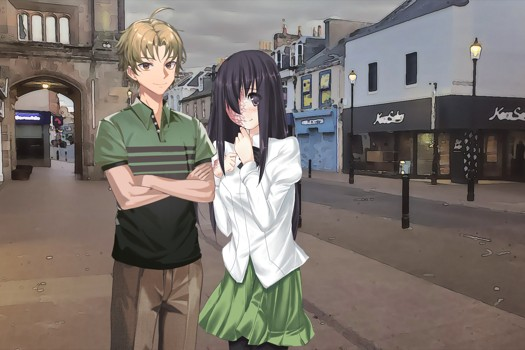
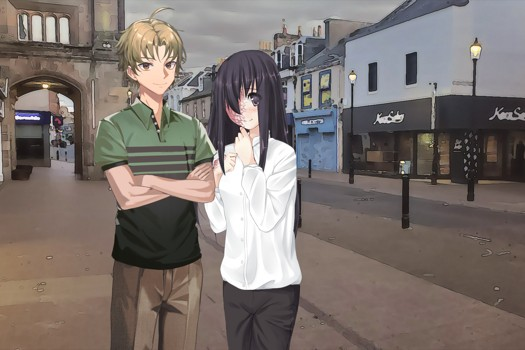
Update journal photos to use new summer sprites

Changed region(s): [[0.3657, 0.3714, 0.6095, 1.0]]

diff --git a/scripts/shimgx.py b/scripts/shimgx.py
@@ -329,10 +329,10 @@ IMAGES: list[tuple[str, str, list[ImageTransformation]]] = [
 PHOTOGRAPHS: list[tuple[str, str, list[ImageTransformation]]] = [
     # chapter 28
     ("event/planeride/planeride_bliss.jpg", "gui/journal/p01.jpg", [crop(300, 0, 1920, 1080), resize(525, 350)]),
-    ("bgs/inverness_street.jpg", "gui/journal/p02.jpg", [CompositeTransformation([(700, 0, "~sprites/hanako/hanako_emb_smile.png"), (300, 0, "sprites/hisao/hisao_cross_smile_polo.png")]), crop(150, 0, 1770, 1080), resize(525, 350)]),
-    ("bgs/inverness_tree.jpg", "gui/journal/p03.jpg", [CompositeTransformation([(384, 0, "~sprites/lilly/lilly_basic_cheerful_cas.png"), (1074, 30, "~sprites/hanako/hanako_basic_bashful_cas.png"), (692, 30, "sprites/hisao/hisao_basic_smile_polo.png")]), crop(162, 0, 1782, 1080), resize(525, 350)]),
-    ("reference/bgs/cawthorn.jpg", "gui/journal/p07.jpg", [CompositeTransformation([(338, 50, "sprites/hisao/hisao_basic_grin_polo.png")]), resize(525, 350)]),
-    ("reference/journal/photos/p10.jpg", "gui/journal/p10.jpg", [CompositeTransformation([(793, 200, "~sprites/lilly/lilly_cane_giggle_cas.png"), (1199, 200, "sprites/akira/akira_basic_cheerful.png")]), crop(165, 220, 1756, 1280), resize(525, 350)]),
+    ("bgs/inverness_street.jpg", "gui/journal/p02.jpg", [CompositeTransformation([(700, 0, "sprites/hanako/hanako_emb_smile_sum.png"), (300, 0, "sprites/hisao/hisao_cross_smile_polo.png")]), crop(150, 0, 1770, 1080), resize(525, 350)]),
+    ("bgs/inverness_tree.jpg", "gui/journal/p03.jpg", [CompositeTransformation([(384, 0, "sprites/lilly/lilly_basic_cheerful_sum.png"), (1074, 30, "sprites/hanako/hanako_basic_bashful_sum.png"), (692, 30, "sprites/hisao/hisao_basic_smile_polo.png")]), crop(162, 0, 1782, 1080), resize(525, 350)]),
+    ("reference/Backgrounds/cawthorn.jpg", "gui/journal/p07.jpg", [CompositeTransformation([(338, 50, "sprites/hisao/hisao_basic_grin_polo.png")]), resize(525, 350)]),
+    ("reference/Journal/photos/p10.jpg", "gui/journal/p10.jpg", [CompositeTransformation([(793, 200, "sprites/lilly/lilly_cane_giggle_sum.png"), (1199, 200, "sprites/akira/akira_basic_cheerful_cas.png")]), crop(165, 220, 1756, 1280), resize(525, 350)]),
     ("reference/journal/photos/p11.jpg", "gui/journal/p11.jpg", [crop(0, 46, 1000, 712), resize(525, 350)]),
     ("reference/bgs/urquhart castle.jpg", "gui/journal/p12.jpg", [resize(525, 350)]),
     ("reference/bgs/dolphin and seal centre.jpg", "gui/journal/p13.jpg", [crop(0, 8, 1024, 691), resize(525, 350)]),
